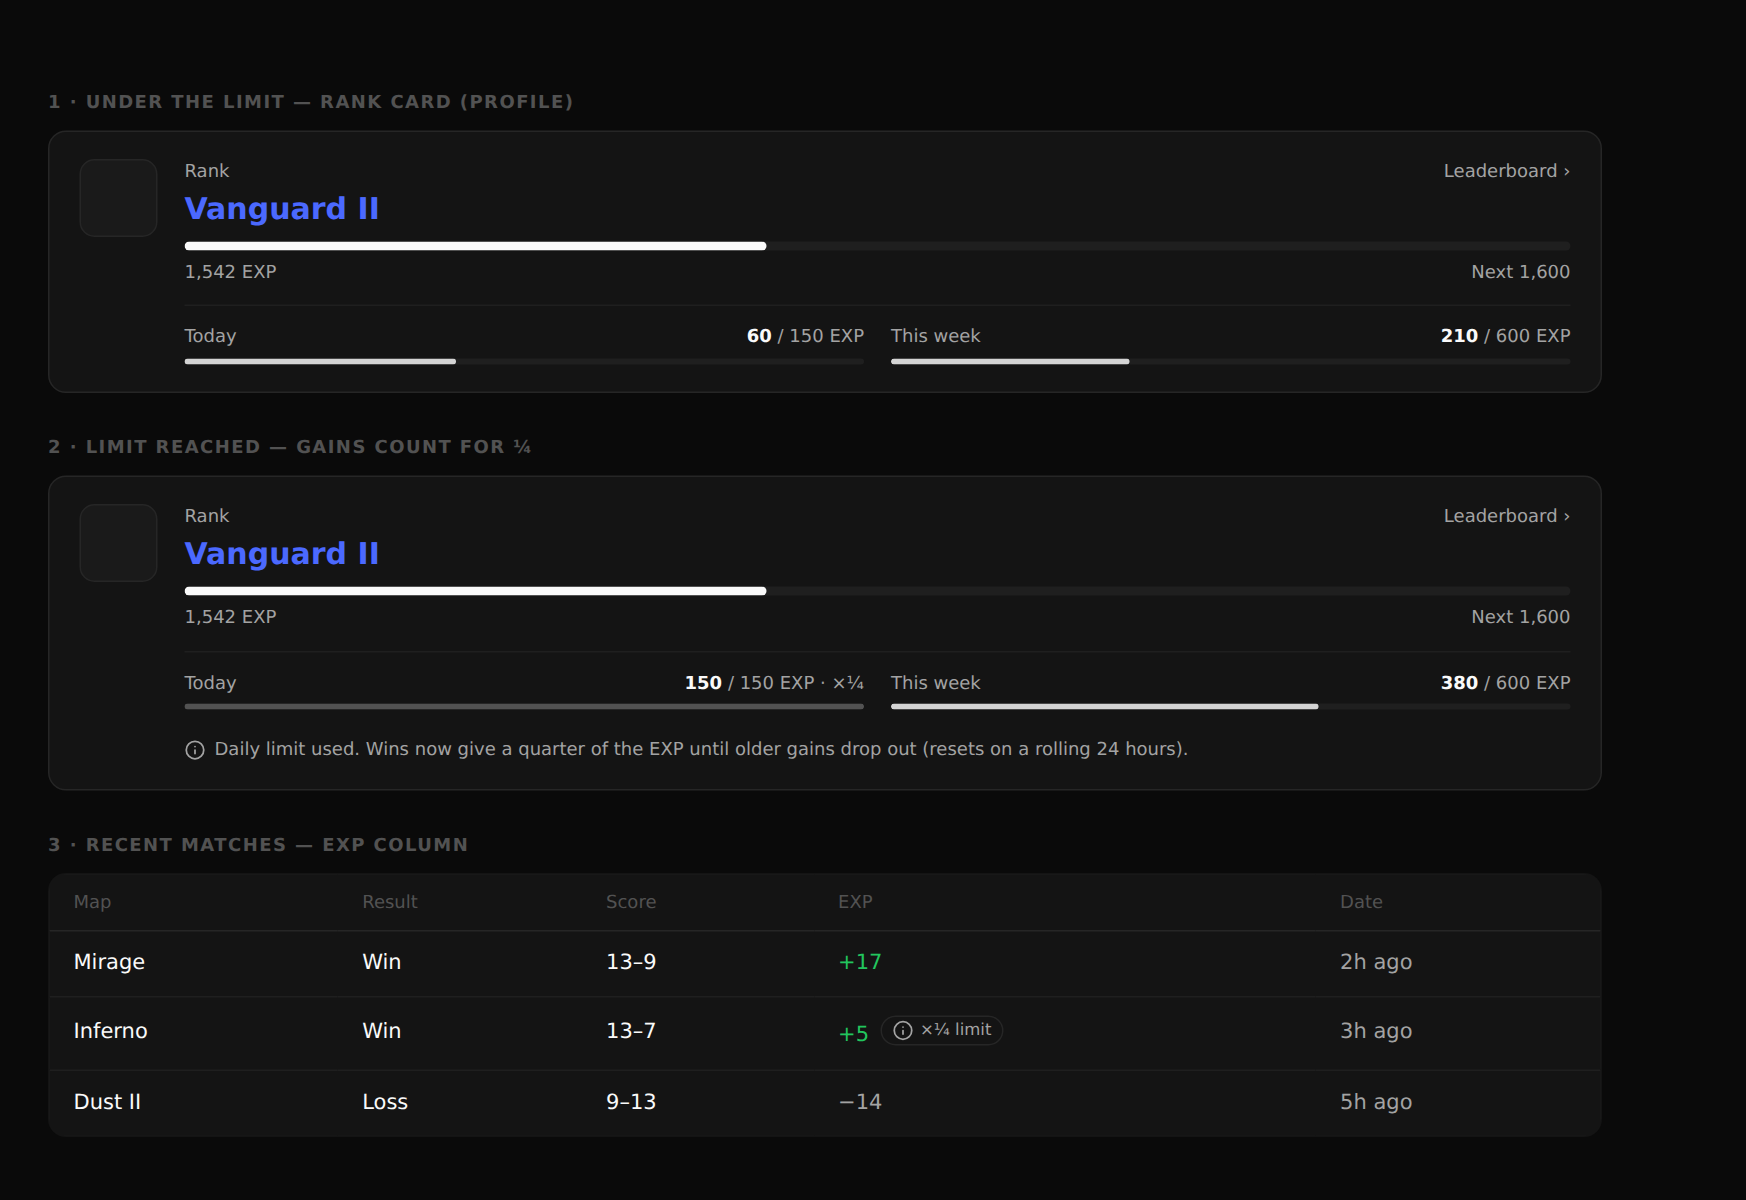
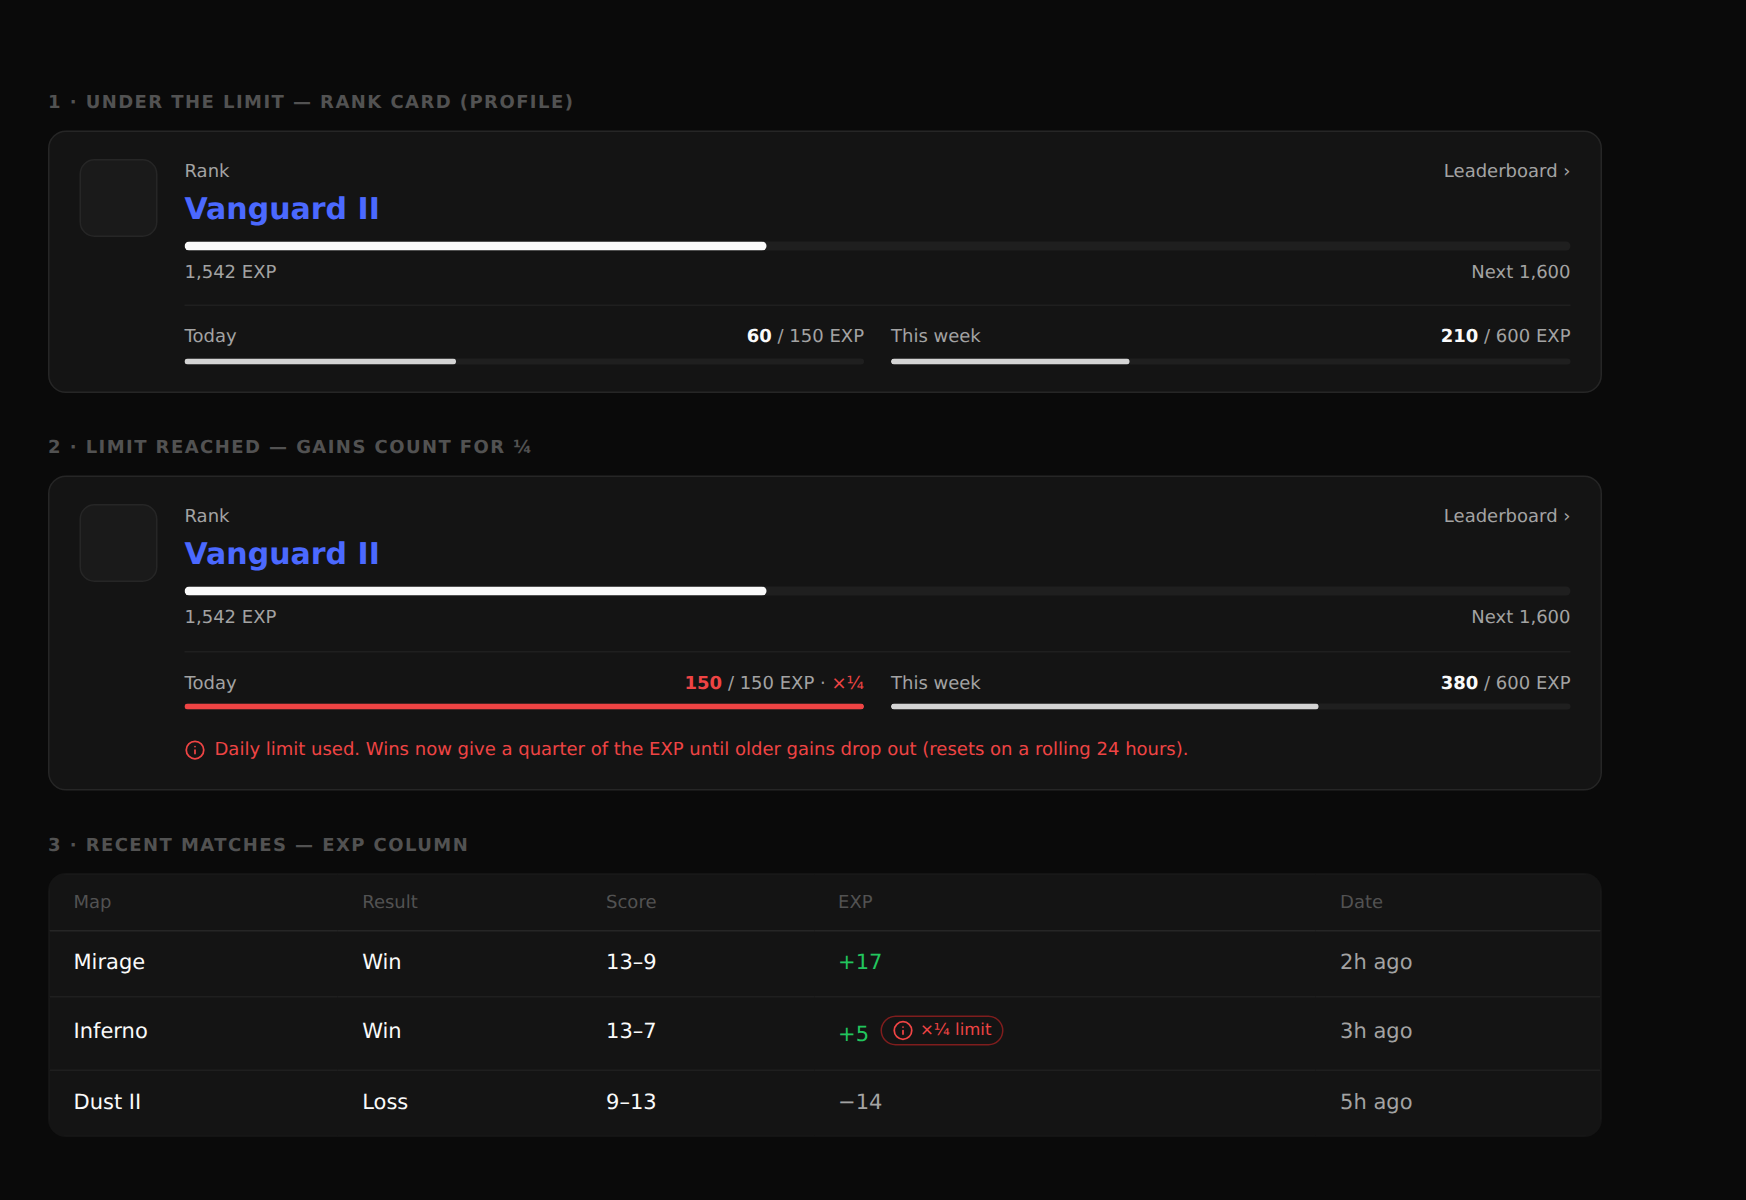
Show the EXP limit in red in the reference design
Claude-Session: https://claude.ai/code/session_01TcQZBqkxUw3iNcovWih4PN

Changed region(s): [[0.0928, 0.5858, 0.6804, 0.6475], [0.5258, 0.8325, 0.5876, 0.8633]]

diff --git a/docs/design/exp-limit.html b/docs/design/exp-limit.html
@@ -1,6 +1,6 @@
 <!doctype html><meta charset="utf-8"><title>EXP limit</title>
 <style>
-:root{--bg:#0a0a0a;--card:#141414;--raised:#1a1a1a;--line:#262626;--soft:#1f1f1f;--text:#fafafa;--dim:#a3a3a3;--faint:#525252;--van:#4b69ff}
+:root{--bg:#0a0a0a;--card:#141414;--raised:#1a1a1a;--line:#262626;--soft:#1f1f1f;--text:#fafafa;--dim:#a3a3a3;--faint:#525252;--van:#4b69ff;--limit-red:#ef4444}
 *{box-sizing:border-box}body{margin:0;background:var(--bg);color:var(--text);font:14px/1.4 Onest,system-ui,sans-serif;padding:32px;width:1100px}
 h2{font-size:12px;font-weight:600;color:var(--faint);text-transform:uppercase;letter-spacing:.08em;margin:28px 0 10px}
 .card{background:var(--card);border:1px solid var(--line);border-radius:12px;padding:18px 20px;display:flex;gap:18px;align-items:flex-start}
@@ -10,13 +10,13 @@ h2{font-size:12px;font-weight:600;color:var(--faint);text-transform:uppercase;le
 .bar{height:6px;border-radius:999px;background:var(--soft);overflow:hidden}.bar i{display:block;height:100%;background:var(--text);border-radius:999px}
 .lim{margin-top:14px;border-top:1px solid var(--soft);padding-top:12px;display:grid;grid-template-columns:1fr 1fr;gap:18px}
 .lim .t{display:flex;justify-content:space-between;font-size:12px;color:var(--dim);margin-bottom:6px}.lim b{color:var(--text);font-weight:600}
-.lim .bar{height:4px}.lim .bar i{background:#d4d4d4}.lim .full i{background:var(--faint)}
+.lim .bar{height:4px}.lim .bar i{background:#d4d4d4}.lim .full i{background:var(--limit-red)}.lim .full .t b,.lim .full .x{color:var(--limit-red)}.note.red{color:var(--limit-red)}
 .note{grid-column:1/3;font-size:12px;color:var(--dim);display:flex;gap:6px;align-items:center}
 svg{width:14px;height:14px;stroke:currentColor;fill:none;stroke-width:2;stroke-linecap:round;stroke-linejoin:round;flex:none}
 table{width:100%;border-collapse:collapse;background:var(--card);border:1px solid var(--line);border-radius:12px;overflow:hidden}
 th{font-size:12px;font-weight:500;color:var(--faint);text-align:left;padding:10px 16px;border-bottom:1px solid var(--line)}td{padding:12px 16px;border-bottom:1px solid var(--soft)}
 .pill{display:inline-flex;gap:4px;align-items:center;font-size:11px;color:var(--dim);border:1px solid var(--line);border-radius:999px;padding:1px 7px;margin-left:8px}
-.g{color:#22c55e}.r{color:var(--dim)}
+.g{color:#22c55e}.pill.red{color:var(--limit-red);border-color:#7f1d1d}.r{color:var(--dim)}
 </style>
 <svg style="display:none"><symbol id="i" viewBox="0 0 24 24"><circle cx="12" cy="12" r="10"/><path d="M12 16v-4M12 8h.01"/></symbol></svg>
 <h2>1 · Under the limit — rank card (profile)</h2>
@@ -29,11 +29,11 @@ th{font-size:12px;font-weight:500;color:var(--faint);text-align:left;padding:10p
 <div class="card"><div class="emb"></div><div class="main">
 <div class="row"><span>Rank</span><span>Leaderboard ›</span></div><div class="rank">Vanguard II</div>
 <div class="bar"><i style="width:42%"></i></div><div class="row" style="margin-top:6px"><span>1,542 EXP</span><span>Next 1,600</span></div>
-<div class="lim"><div class="full"><div class="t"><span>Today</span><span><b>150</b> / 150 EXP · ×¼</span></div><div class="bar"><i style="width:100%"></i></div></div>
+<div class="lim"><div class="full"><div class="t"><span>Today</span><span><b>150</b> / 150 EXP · <span class="x">×¼</span></span></div><div class="bar"><i style="width:100%"></i></div></div>
 <div><div class="t"><span>This week</span><span><b>380</b> / 600 EXP</span></div><div class="bar"><i style="width:63%"></i></div></div>
-<div class="note"><svg><use href="#i"/></svg>Daily limit used. Wins now give a quarter of the EXP until older gains drop out (resets on a rolling 24 hours).</div></div></div></div>
+<div class="note red"><svg><use href="#i"/></svg>Daily limit used. Wins now give a quarter of the EXP until older gains drop out (resets on a rolling 24 hours).</div></div></div></div>
 <h2>3 · Recent matches — EXP column</h2>
 <table><tr><th>Map</th><th>Result</th><th>Score</th><th>EXP</th><th>Date</th></tr>
 <tr><td>Mirage</td><td>Win</td><td>13–9</td><td class="g">+17</td><td class="r">2h ago</td></tr>
-<tr><td>Inferno</td><td>Win</td><td>13–7</td><td class="g">+5<span class="pill"><svg><use href="#i"/></svg>×¼ limit</span></td><td class="r">3h ago</td></tr>
+<tr><td>Inferno</td><td>Win</td><td>13–7</td><td class="g">+5<span class="pill red"><svg><use href="#i"/></svg>×¼ limit</span></td><td class="r">3h ago</td></tr>
 <tr><td>Dust II</td><td>Loss</td><td>9–13</td><td class="r">−14</td><td class="r">5h ago</td></tr></table>

diff --git a/CLAUDE.md b/CLAUDE.md
@@ -66,6 +66,12 @@ it passes today — that's a coincidence of the exact value chosen, not a loopho
 rely on. If `--brand` ever changes, rerun `npm run check:colors` and re-verify by eye
 that it still reads as the one deliberate exception, not a second UI accent.
 
+### Limit red (owner request 2026-09-30)
+
+When a player hits the daily or weekly EXP limit (gains count for ¼), the limit bar, the `×¼` label,
+its one-line note and the `×¼ limit` pill in the match row are red (`--limit-red` `#ef4444`). Nothing else
+uses red; it is a status color like `--status-green`, not a general accent. Reference: `docs/design/exp-limit.png`.
+
 ### Glass (owner request 2026-09-28)
 
 The whole app sits on a dim Dust II backdrop (`body::before`). The shell — sidebar, top bar and
